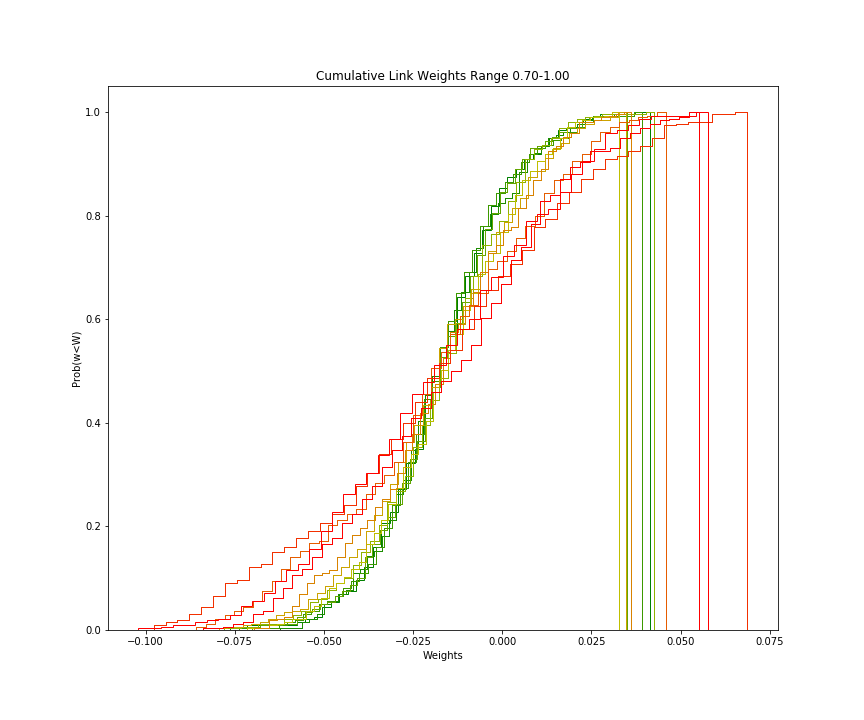
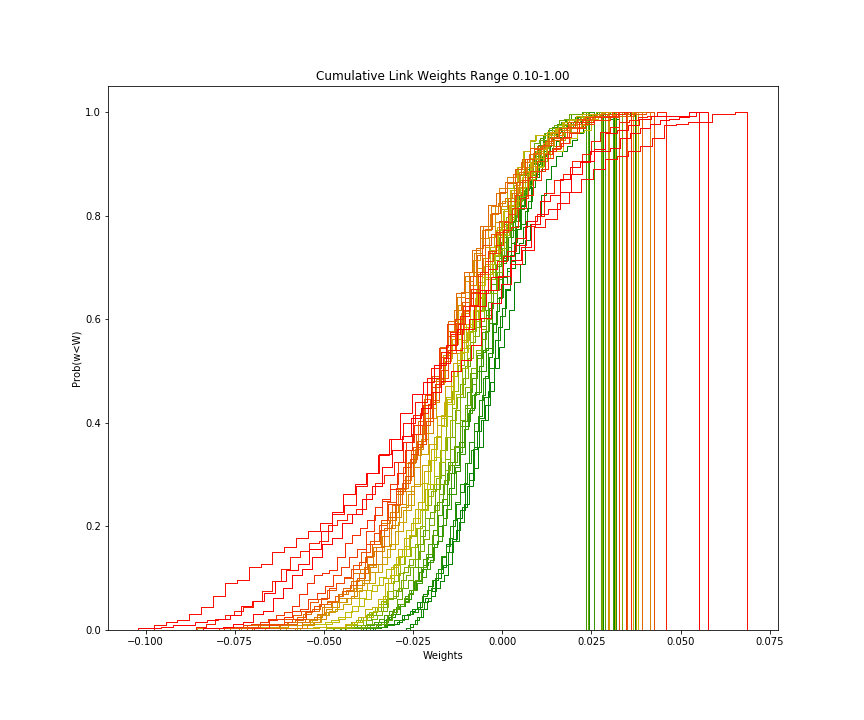
Further analysis.

Changed region(s): [[0.2812, 0.1528, 0.7812, 0.8861]]

diff --git a/experiments/MNIST/unified_analysis/plot_generator.py b/experiments/MNIST/unified_analysis/plot_generator.py
@@ -243,7 +243,7 @@ plt.savefig('./images/{}/{}-transition-std.png'.format(topology, topology))
 plt.show()
             
 # Cumulative Link weights
-arange_accuracy = np.arange(0.7, 0.975, 0.025)
+arange_accuracy = np.arange(0.1, 0.975, 0.025)
 num_colors = len(arange_accuracy)
 colors_cumulative = list(red.range_to(Color("red"),num_colors))
 for acc, i in zip(arange_accuracy, range(num_colors)):
